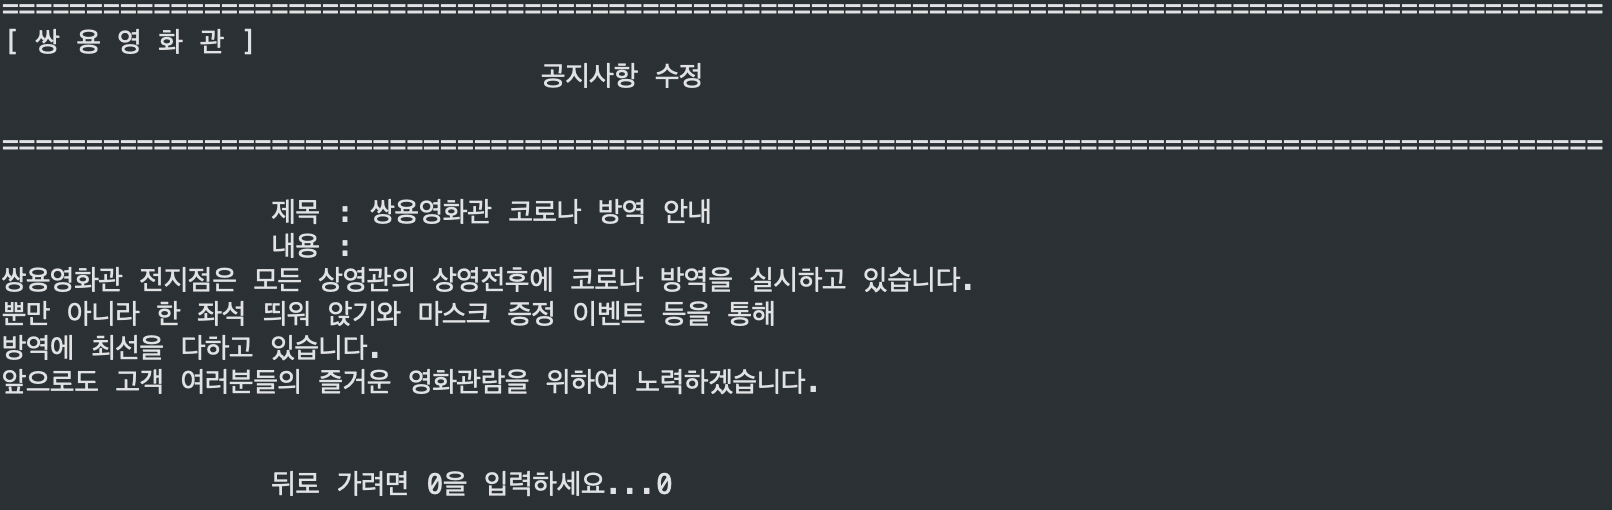
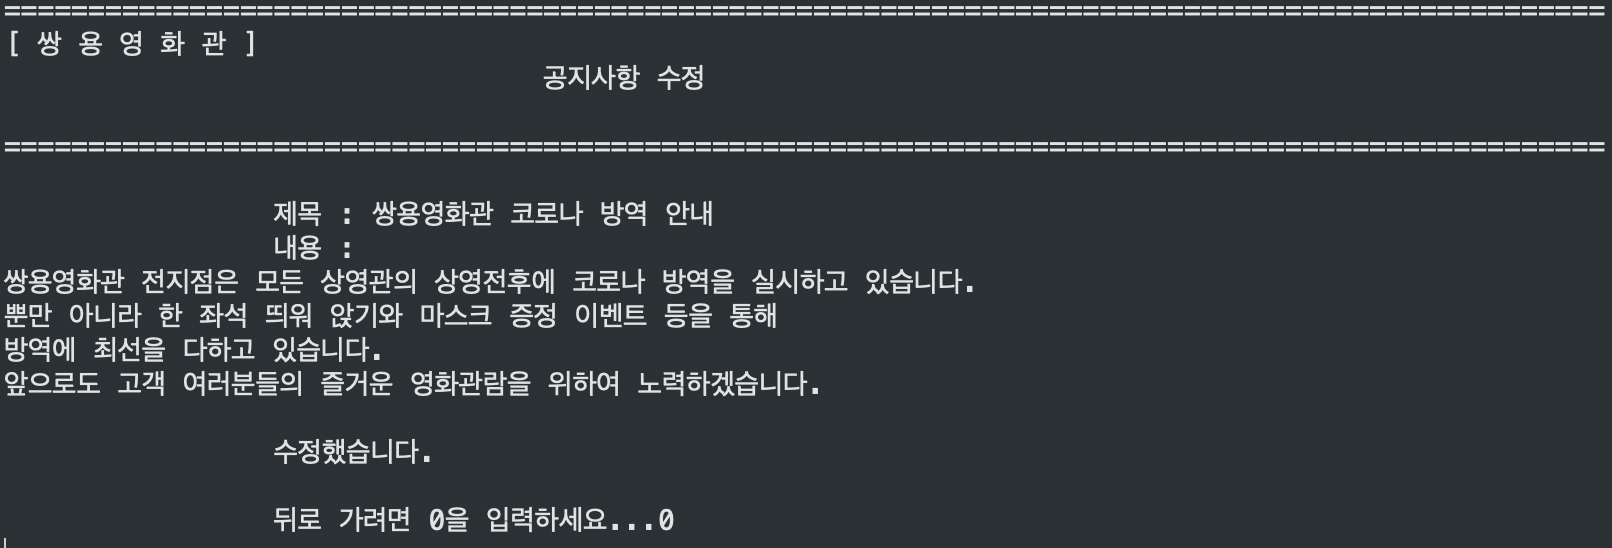
Modified Readme.md

diff --git a/src/data/NoticeBoard.java b/src/data/NoticeBoard.java
@@ -135,6 +135,7 @@ public class NoticeBoard implements Interface_NoticeBoard{
 				writer.write(noticeInfo);
 			}
 			writer.close();
+			System.out.println("\t\t수정했습니다.");
 		}catch(Exception e) {
 			System.out.println("NoticeBoard.modifyPost()");
 		}
